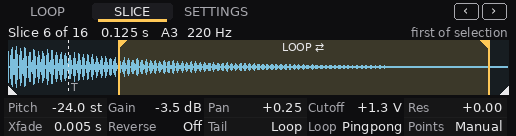
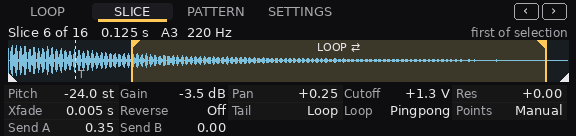
2.10.1: Per-slice FX send A/B outputs; panel widened to 40 HP
Claude-Session: https://claude.ai/code/session_01LofT1pqQm2emWHyWncfvgX

diff --git a/src/SpoolsWidget.cpp b/src/SpoolsWidget.cpp
@@ -5,9 +5,11 @@
 
 namespace {
 
-// Layout in panel px (36 HP = 540 x 380), top to bottom: display; tone strip (filter, envelopes);
-// main knob row with a CV amount and jack under each; inputs and outputs. Must match res/Spools*.svg.
-constexpr float kDisplayY = 14, kDisplayH = 136;
+// Layout in panel px (40 HP = 600 x 380), top to bottom: display; tone strip (filter, envelopes);
+// main knob row with a CV amount and jack under each; inputs and outputs. The per-slice outputs sit in a
+// column on the right. Must match res/Spools*.svg.
+constexpr float kDisplayY = 14, kDisplayH = 136, kDisplayW = 576;
+constexpr float kSliceColX = 562, kSliceColY0 = 190, kSliceColStep = 54;  // SEND A, SEND B, CV A, CV B
 constexpr float kStripY = 186, kStripLabelY = 168, kStripStep = 30, kStripGap = 6;
 constexpr float kCol0 = 39, kColStep = 51, kRow1 = 252, kAttY = 287, kCvY = 312, kBottomY = 360;
 float col(int i) { return kCol0 + kColStep * i; }
@@ -160,7 +162,7 @@ struct SpoolsWidget : ModuleWidget {
 		auto* display = new SpoolsDisplay;
 		display->module = module;
 		display->box.pos = Vec(12, kDisplayY);
-		display->box.size = Vec(516, kDisplayH);
+		display->box.size = Vec(kDisplayW, kDisplayH);
 		addChild(display);
 
 		auto* labels = new PanelLabels;
@@ -237,6 +239,14 @@ struct SpoolsWidget : ModuleWidget {
 			float x = 292 + 36 * i;
 			addOutput(createOutputCentered<ThemedPJ301MPort>(Vec(x, kBottomY), module, outs[i]));
 			labels->labels.push_back({x, kBottomY - 18, outLabels[i]});
+		}
+		// Per-slice outputs: each slice sets its own level into them on the SLICE page.
+		const int sliceOuts[] = {S::SEND_A_OUTPUT, S::SEND_B_OUTPUT};
+		const char* sliceLabels[] = {"SEND A", "SEND B"};
+		for (int i = 0; i < 2; i++) {
+			const float y = kSliceColY0 + kSliceColStep * float(i);
+			addOutput(createOutputCentered<ThemedPJ301MPort>(Vec(kSliceColX, y), module, sliceOuts[i]));
+			labels->labels.push_back({kSliceColX, y - 18, sliceLabels[i]});
 		}
 		addChild(labels);
 	}

diff --git a/core/voice.cpp b/core/voice.cpp
@@ -80,6 +80,8 @@ void Voice::begin(const SeqEvent& e, double slotSeconds, const Loop& l, const Vo
 
 	auto span = SlicePlayer::span(*l.audio, s.start, l.sliceEnd(size_t(slice)), r.startTrim, r.endTrim, r.reverse);
 	pitch.snap(r.pitch);  // a new slice starts at its own pitch; only changes while it plays glide
+	send[0].snap(s.p.sendA);
+	send[1].snap(s.p.sendB);
 	velocity[cur] = e.gain;
 	gain[cur].snap(dbToGain(r.gain) * e.gain);
 	if (sliceOf[0] < 0 && sliceOf[1] < 0) { cutoff.snap(r.cutoff); res.snap(r.res); }  // first note: no sweep in
@@ -157,6 +159,8 @@ VoiceOut Voice::play(const SeqEvent& e, double beatPeriod, const Loop& l, const 
 		const float c = glideCoef;
 		gain[0].step(c);
 		gain[1].step(c);
+		send[0].step(c);
+		send[1].step(c);
 		const float st = pitch.step(c);
 		if (players[cur].active() && st != lastPitch) {
 			lastPitch = st;
@@ -184,6 +188,9 @@ VoiceOut Voice::play(const SeqEvent& e, double beatPeriod, const Loop& l, const 
 	out.filterEnv = fe;
 	out.left = filter.process(0, l0);
 	out.right = filter.process(1, r0);
+	const float mono = 0.5f * (out.left + out.right);
+	out.sendA = mono * send[0].value;
+	out.sendB = mono * send[1].value;
 	out.slice = lastSlice;
 	out.playing = players[0].active() || players[1].active();
 	quiet = !out.playing && std::fabs(out.left) + std::fabs(out.right) < 1e-6f ? quiet + 1 : 0;
@@ -198,6 +205,8 @@ void Voice::updateTargets(const Loop& l, const VoiceParams& vp) {
 	const SliceParams& sp = lastSlice >= 0 && size_t(lastSlice) < l.slices.size() ? l.slices[size_t(lastSlice)].p : none;
 	const Resolved r = resolve(vp, sp);
 	pitch.target = std::clamp(r.pitch + eventPitch, -48.f, 48.f);
+	send[0].target = std::clamp(sp.sendA, 0.f, 1.f);
+	send[1].target = std::clamp(sp.sendB, 0.f, 1.f);
 	cutoff.target = r.cutoff;
 	res.target = r.res;
 }

diff --git a/src/Spools.cpp b/src/Spools.cpp
@@ -94,6 +94,8 @@ Spools::Spools() {
 	configOutput(SLICE_OUTPUT, "Slice index (1/12 V per slice)");
 	configOutput(TRIG_OUTPUT, "Slice start trigger");
 	configOutput(EOC_OUTPUT, "End of phrase");
+	configOutput(SEND_A_OUTPUT, "Send A (mono, each slice at its own level)");
+	configOutput(SEND_B_OUTPUT, "Send B (mono, each slice at its own level)");
 	for (int c = 0; c < kMaxVoices; c++) { playingSlice[c] = -1; playheads[c] = -1.f; playingStep[c] = -1; }
 	paramDivider.setDivision(32);
 	paramDivider.clock = 31;  // read the knobs on the first sample
@@ -356,6 +358,8 @@ void Spools::process(const ProcessArgs& args) {
 		if (o.eoc) eocPulses[c].trigger(1e-3f);
 		outputs[LEFT_OUTPUT].setVoltage(5.f * o.left, c);
 		outputs[RIGHT_OUTPUT].setVoltage(5.f * o.right, c);
+		outputs[SEND_A_OUTPUT].setVoltage(5.f * o.sendA, c);
+		outputs[SEND_B_OUTPUT].setVoltage(5.f * o.sendB, c);
 		outputs[SLICE_OUTPUT].setVoltage(o.slice >= 0 ? semitonesToVolts(o.slice) : 0.f, c);
 		outputs[TRIG_OUTPUT].setVoltage(trigPulses[c].process(args.sampleTime) ? 10.f : 0.f, c);
 		outputs[EOC_OUTPUT].setVoltage(eocPulses[c].process(args.sampleTime) ? 10.f : 0.f, c);
@@ -421,6 +425,8 @@ json_t* sliceParamsToJson(const SliceParams& p) {
 	num("cutoff", p.cutoff);
 	num("res", p.res);
 	num("xfade", p.xfade);
+	num("sendA", p.sendA);
+	num("sendB", p.sendB);
 	num("loopStart", p.loopStart);
 	num("loopEnd", p.loopEnd);
 	if (p.pingPong) json_object_set_new(j, "pingPong", json_true());
@@ -439,6 +445,8 @@ void sliceParamsFromJson(json_t* j, SliceParams& p) {
 	num("cutoff", p.cutoff);
 	num("res", p.res);
 	num("xfade", p.xfade);
+	num("sendA", p.sendA);
+	num("sendB", p.sendB);
 	num("loopStart", p.loopStart);
 	num("loopEnd", p.loopEnd);
 	p.pingPong = json_is_true(json_object_get(j, "pingPong"));

diff --git a/src/SlicePage.cpp b/src/SlicePage.cpp
@@ -9,7 +9,7 @@ using namespace theme;
 
 namespace {
 
-constexpr float kHeader = 18, kFieldH = 19, kFieldRows = 2, kFieldCols = 5, kGrab = 5, kFlag = 8;
+constexpr float kHeader = 18, kFieldH = 17, kFieldRows = 3, kFieldCols = 5, kGrab = 5, kFlag = 8;
 
 // A per-slice parameter shown as a name/value cell. Numeric fields drag vertically (Shift for fine) and
 // reset on double-click; choice fields open a menu.
@@ -59,6 +59,8 @@ const std::vector<Field>& fields() {
 					p.loopStart = float((lp.start - from) / sr);
 					p.loopEnd = float((lp.end - from) / sr);
 				}),
+			num("Send A", &SliceParams::sendA, 0, 1, 0.005f, "%.2f"),
+			num("Send B", &SliceParams::sendB, 0, 1, 0.005f, "%.2f"),
 		};
 	}();
 	return f;
@@ -372,7 +374,7 @@ struct SlicePage : Page {
 			math::Rect r = cell(ctx, fi);
 			r.pos = r.pos.plus(ctx.area.pos);
 			if ((fi + fi / size_t(kFieldCols)) % 2 == 0) ctx.fillRect(r.pos.x - 4, r.pos.y, r.size.x + 8, r.size.y, nvgRGBA(0xff, 0xff, 0xff, 0x08));
-			const float y = r.pos.y + 14;
+			const float y = r.pos.y + 13;
 			const bool active = drag == Drag::Field && dragField == fi;
 			ctx.text(r.pos.x, y, NVG_ALIGN_LEFT | NVG_ALIGN_BASELINE, kBody, kDim, f.name);
 			std::string value = f.value ? string::f(f.format, p.*f.value) : f.options[f.get(p)];

diff --git a/tests/voice.cpp b/tests/voice.cpp
@@ -336,3 +336,18 @@ TEST_CASE("Stretch tail fills the slot, keeping the attack's timing and the pitc
 	CHECK(half.from == doctest::Approx(6000));  // only the second half of the slice is stretched
 	CHECK(half.outSamples == doctest::Approx(18000));
 }
+
+TEST_CASE("sends carry the voice's mono mix at each slice's own level") {
+	auto l = std::make_shared<Loop>(*steps(2));
+	l->slices[0].p.sendA = 0.5f;
+	l->slices[1].p.sendB = 1;
+	PhraseParams p;
+	p.length = 2;
+	Voice v;
+	std::vector<VoiceOut> o;
+	for (size_t i = 0; i < 24000; i++) o.push_back(v.process(i / 48000.0 / 0.25, 0.25, i < 10, i == 0, 0, *l, p, {}, 48000));
+	CHECK(o[6000].sendA == doctest::Approx(0.05f).epsilon(0.02));
+	CHECK(o[6000].sendB == 0.f);
+	CHECK(o[18000].sendA == doctest::Approx(0.f).epsilon(0.001));
+	CHECK(o[18000].sendB == doctest::Approx(0.2f).epsilon(0.02));
+}

diff --git a/core/voice.hpp b/core/voice.hpp
@@ -32,6 +32,7 @@ struct VoiceParams {
 
 struct VoiceOut {
 	float left = 0, right = 0;
+	float sendA = 0, sendB = 0;  // the voice's mono mix (after the filter) at the playing slice's send levels
 	int slice = -1;   // slice now playing (or last played)
 	bool trig = false, eoc = false, playing = false;
 	float ampEnv = 0, filterEnv = 0;
@@ -66,6 +67,7 @@ private:
 	float panL[2] = {1, 1}, panR[2] = {1, 1}, rateBase = 0;
 	int sliceOf[2] = {-1, -1};               // slice each player is sounding
 	Smoother gain[2], pitch, cutoff, res;    // gain is linear
+	Smoother send[2];                        // A and B, of the newest slice
 	int controlCountdown = 0, targetCountdown = 0;
 	bool released = false;
 	// Cached control-rate work: the glide coefficient, the last pitch sent and the last filter setting.

diff --git a/src/Spools.hpp b/src/Spools.hpp
@@ -56,7 +56,7 @@ struct Spools : Module {
 		OVERLAP_INPUT, QUANTIZE_INPUT, CUTOFF_INPUT, RES_INPUT, RUN_INPUT, CONT_INPUT, BAR_INPUT,
 		INPUTS_LEN
 	};
-	enum OutputId { LEFT_OUTPUT, RIGHT_OUTPUT, SLICE_OUTPUT, TRIG_OUTPUT, EOC_OUTPUT, AMP_ENV_OUTPUT, FILTER_ENV_OUTPUT, OUTPUTS_LEN };
+	enum OutputId { LEFT_OUTPUT, RIGHT_OUTPUT, SLICE_OUTPUT, TRIG_OUTPUT, EOC_OUTPUT, AMP_ENV_OUTPUT, FILTER_ENV_OUTPUT, SEND_A_OUTPUT, SEND_B_OUTPUT, OUTPUTS_LEN };
 	enum LightId { LIGHTS_LEN };
 
 	static constexpr int kMaxVoices = 16;

diff --git a/core/loop.hpp b/core/loop.hpp
@@ -27,6 +27,7 @@ struct SliceParams {
 	float pitch = 0;                   // semitones
 	float cutoff = 0, res = 0;         // octaves, 0..1
 	float xfade = 0;                   // seconds
+	float sendA = 0, sendB = 0;        // 0..1, levels into the SEND A/B outputs
 	bool reverse = false;
 	TailMode tail = TailMode::Inherit;
 	// Loop tail: points in seconds from the slice start. loopEnd <= loopStart means "automatic":

diff --git a/docs/manual.md b/docs/manual.md
@@ -15,7 +15,7 @@ Spools is a loop player and slicer for VCV Rack 2. It plays REX2, Acidized WAV a
 
 - **Display**: click the tabs along its top to switch pages.
   - **LOOP**: the loop, one colour per slice, with beat and bar lines, a playhead per voice in its slice's colour, and the region marked by an amber bracket (slices outside it are dimmed). The header shows the file, LOOP MODE and REX badges when they apply, the slice count, the length and the current BPM (a `?` means it was guessed).
-  - **SLICE**: a close-up of the selected slice (the first one, when several are selected; the playing one when none is). The ‹ › buttons in the tab row step through the slices. It shows the trims, the transient end (dotted line, `T`) and the loop region in amber, faint while automatic and bright once set by hand. Below are the slice's own settings: Pitch, Gain, Pan, Cutoff, Res and Xfade (drag up or down, Shift for fine, double-click to reset), and Reverse, Tail, Loop (Forward or Pingpong) and Points (Auto or Manual), which open a menu when clicked.
+  - **SLICE**: a close-up of the selected slice (the first one, when several are selected; the playing one when none is). The ‹ › buttons in the tab row step through the slices. It shows the trims, the transient end (dotted line, `T`) and the loop region in amber, faint while automatic and bright once set by hand. Below are the slice's own settings: Pitch, Gain, Pan, Cutoff, Res and Xfade (drag up or down, Shift for fine, double-click to reset), Reverse, Tail, Loop (Forward or Pingpong) and Points (Auto or Manual), which open a menu when clicked, and Send A and Send B, the slice's levels at the SEND outputs.
 
     ![SLICE page](images/page-slice.png)
   - **PATTERN**: the slice-remap pattern for Pattern mode (see [Transport](#transport)).
@@ -24,6 +24,9 @@ Spools is a loop player and slicer for VCV Rack 2. It plays REX2, Acidized WAV a
 - **Main row**: SLICE (start slice), LENGTH, trim IN/OUT, PITCH, LEVEL, XFADE (overlap), DUR (gate length in Cut mode), QUANT (launch quantize), BPM. Each knob with a CV jack has a small CV-amount knob above the jack.
 - **FROM** and **TO** (region) sit under DUR and BPM.
 - **Bottom**: V/OCT, GATE, CLOCK, RUN, CONT and BAR inputs; outputs L, R, SLICE, TRIG, EOC, AENV, FENV.
+- **Right column**: the per-slice outputs SEND A and SEND B.
+
+The panel is 40 HP.
 
 ## Editing slices on the LOOP page
 
@@ -130,6 +133,7 @@ Every input is polyphonic; channel *n* drives voice *n*. The CV inputs next to a
 | TRIG | 1 ms pulse at each slice start |
 | AENV, FENV | amp and filter envelopes, 0–10 V |
 | EOC | 1 ms pulse at the end of each phrase pass |
+| SEND A, SEND B | each voice's mono mix (after its filter and amp envelope) times the playing slice's Send level, ±5 V, polyphonic. Patch them into effects and mix the returns with L and R. |
 
 ## Engine
 

diff --git a/CHANGELOG.md b/CHANGELOG.md
@@ -2,6 +2,12 @@
 
 Versions follow `TODO.md`: each `2.N.p` heading is one task, and the last one in a milestone is the released version.
 
+## 2.10.1
+
+- **SEND A** and **SEND B** outputs: each voice's mono mix, after its filter and amp envelope, scaled by the playing slice's Send A or Send B level (0 by default), polyphonic. Levels are set on the SLICE page, glide when slices change, and are saved in the patch and the `spls` chunk.
+- The panel is now 40 HP, with a column on the right for the per-slice outputs, and the display is 576 px wide.
+- The SLICE page shows its fields in three rows.
+
 ## 2.9.3
 
 - **PATTERN** page:

diff --git a/TODO.md b/TODO.md
@@ -58,7 +58,7 @@ Each top-level item is a minor version (`2.N.0`) and one PR to `main`. Each seco
   - [x] 2.9.3 Pattern page editor and menu actions; persistence in JSON and `spls`
 
 - [ ] **2.10 Per-slice sends and CV**
-  - [ ] 2.10.1 FX send A/B outputs with per-slice levels
+  - [x] 2.10.1 FX send A/B outputs with per-slice levels
   - [ ] 2.10.2 Per-slice CV A/B outputs
 
 - [ ] **2.11 Resizable panel**
